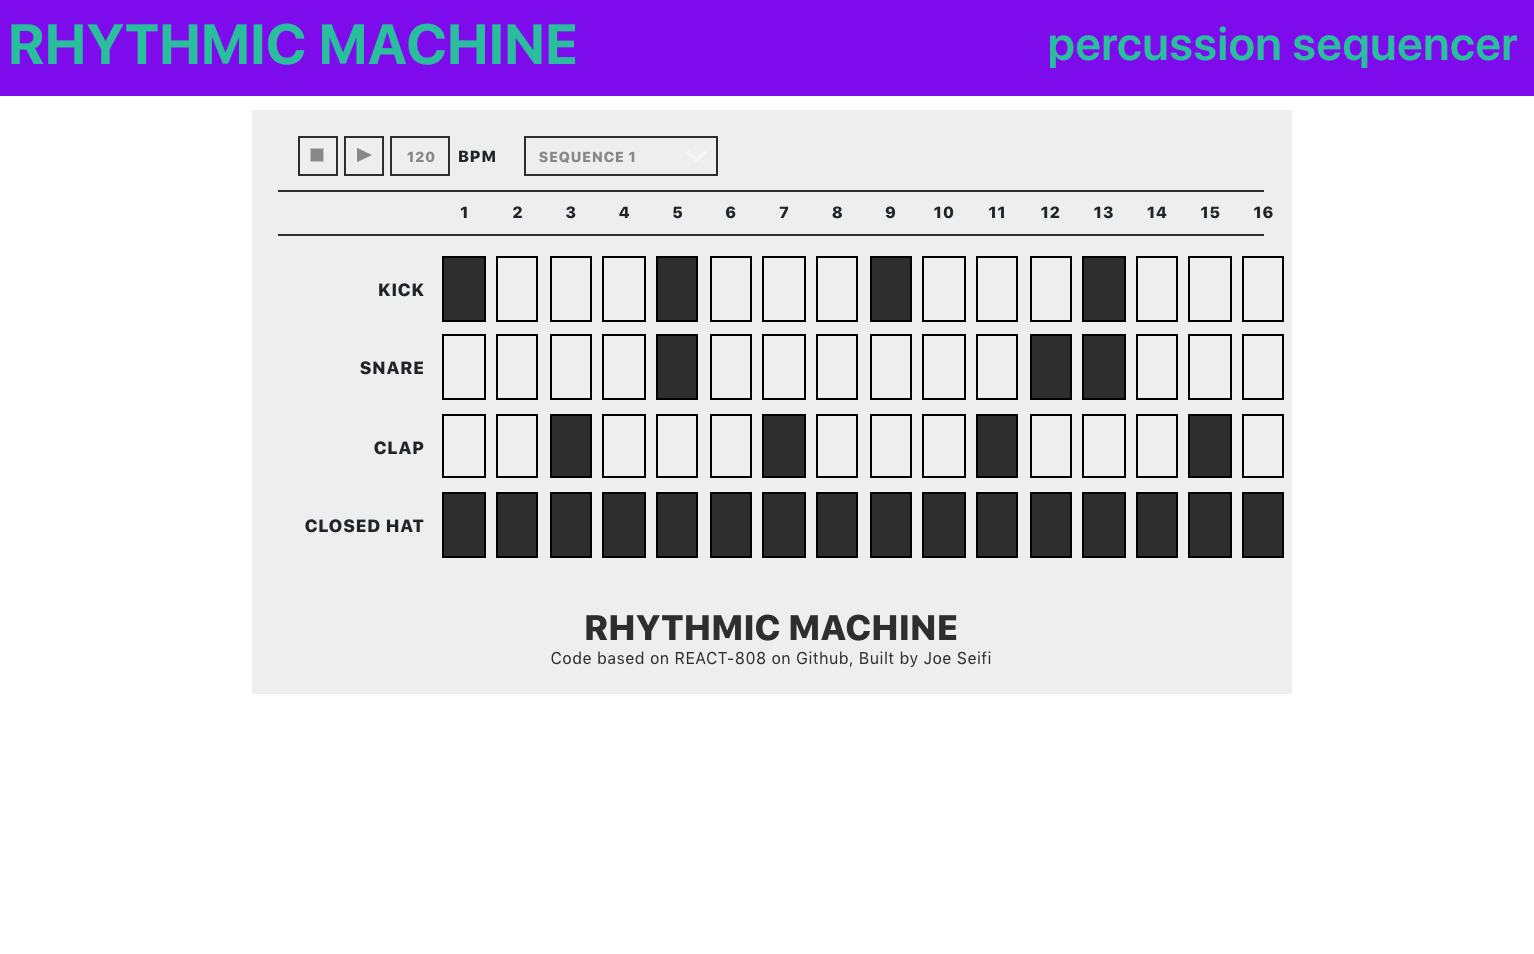
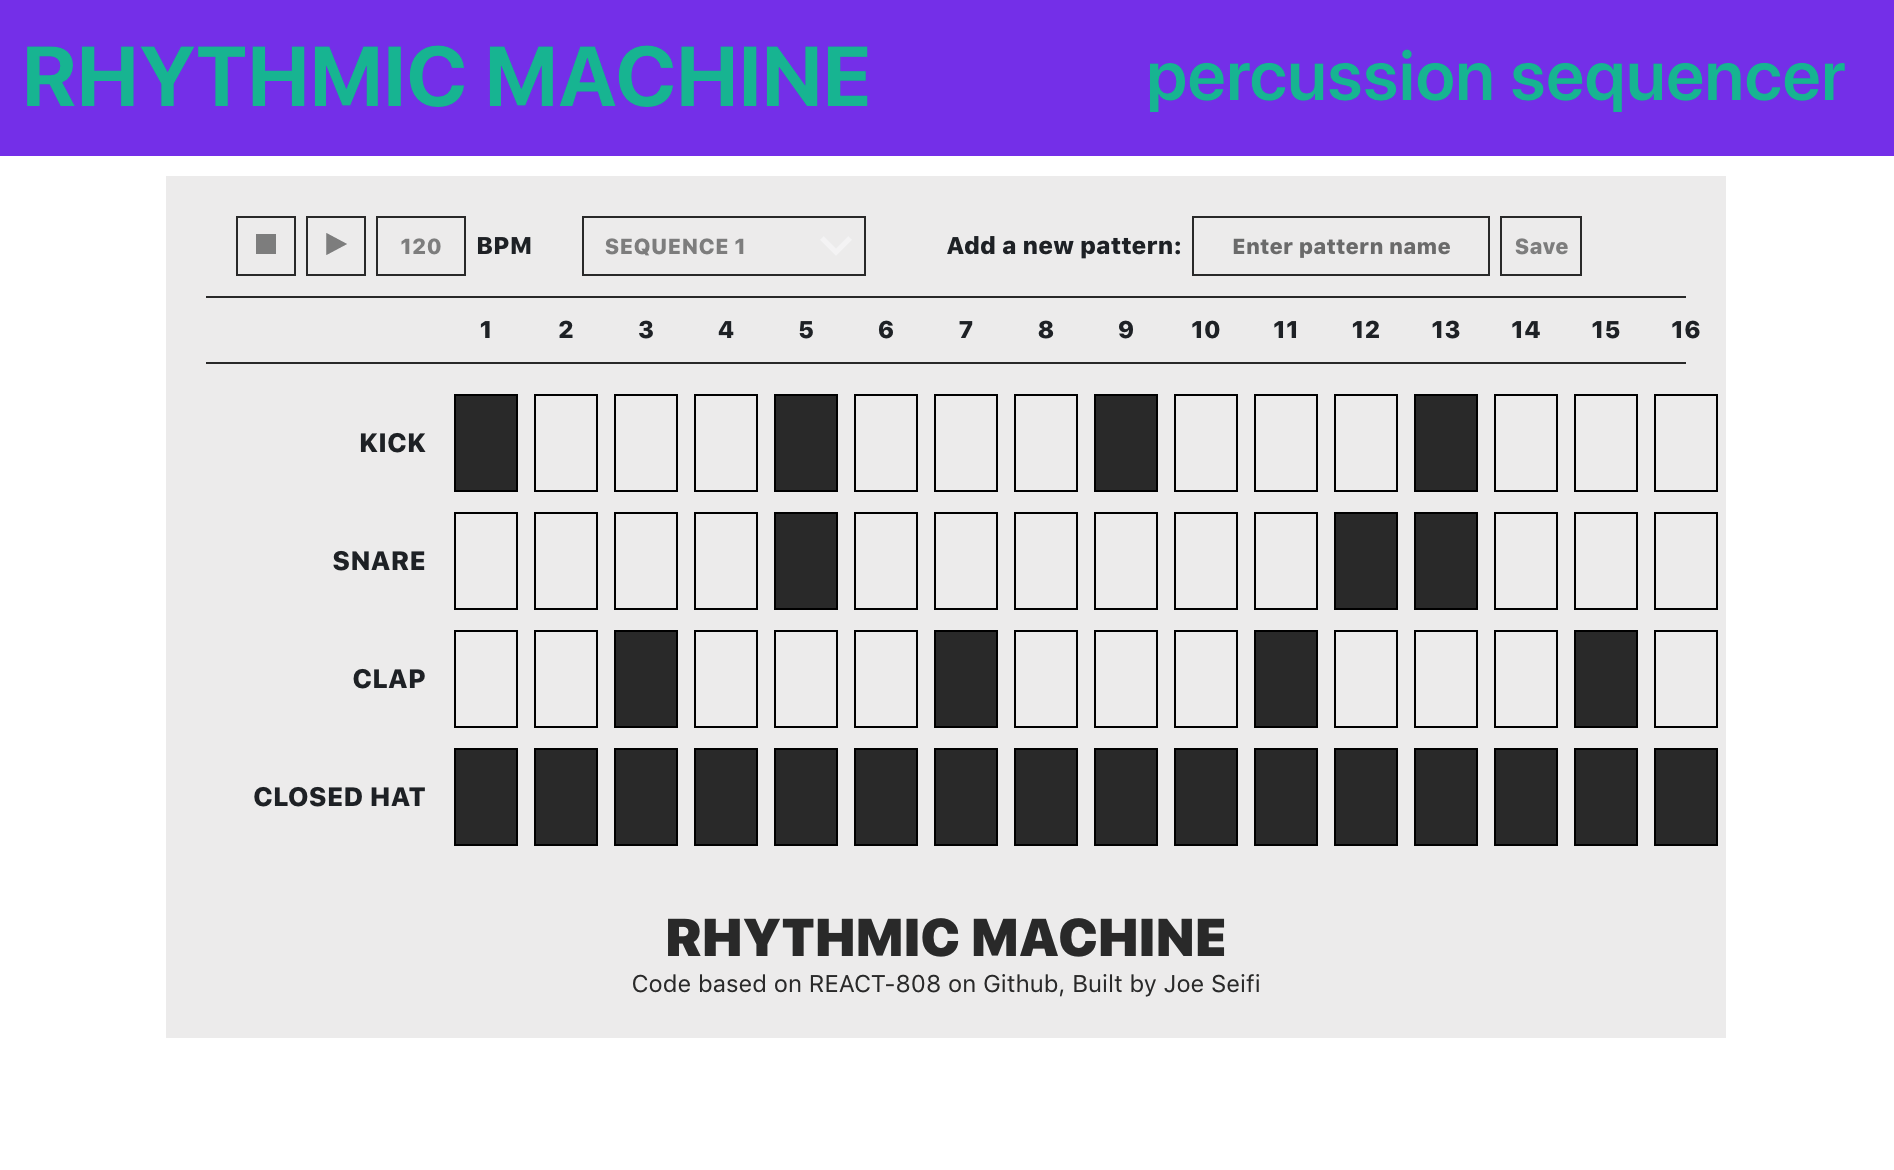
updated README with new screenshot with added save pattern feature

diff --git a/client/src/components/Toolbar/styles.css b/client/src/components/Toolbar/styles.css
@@ -42,7 +42,7 @@
   }
 
   .select_sequence {
-    margin-left: calc(var(--spacer)*4);
+    margin-left: calc(var(--spacer)*1.5);
     text-transform: uppercase;
     border-radius: 0;
     -webkit-appearance: none;

diff --git a/README.md b/README.md
@@ -6,14 +6,15 @@ A simple mobile-friendly drum machine that is capable of playing back in-built r
   * Each time a pad is pressed, it makes a sound, making it into a finger tapping drum machine.
   * If the pad is "on", it will play that sound in a sequence when the pattern is played back.
   * Select other patterns from the dropdown menu.
+  * Name and save your own pattern.
   * Mobile-friendly in landscape orientation. 
 
 ---
 | Table of Contents |
 |---|
+| [Contribution](#Contribution) |
 | [User-Story](#User-Story) |
 | [Functionality](#Functionality) |
-| [Contribution](#Contribution) |
 | [Front-End](#Front-End) |
 | [Back-End](#Back-End) |
 | [Concept](#Concept) |
@@ -78,6 +79,6 @@ https://dry-journey-82163.herokuapp.com/
 
 ### Screenshot
 
-Rhtymic Machine Single Page App
+Rhythmic Machine Single Page App
 
-![rhythmic-machine-single-page-app](https://user-images.githubusercontent.com/73763708/117811950-858e2c80-b2a4-11eb-8ab0-31abc3cb31db.png)
+![rhythmic-machine-single-page-app](https://user-images.githubusercontent.com/73763708/119430709-959e1580-bd54-11eb-88c4-5b454f0b69fb.png)
